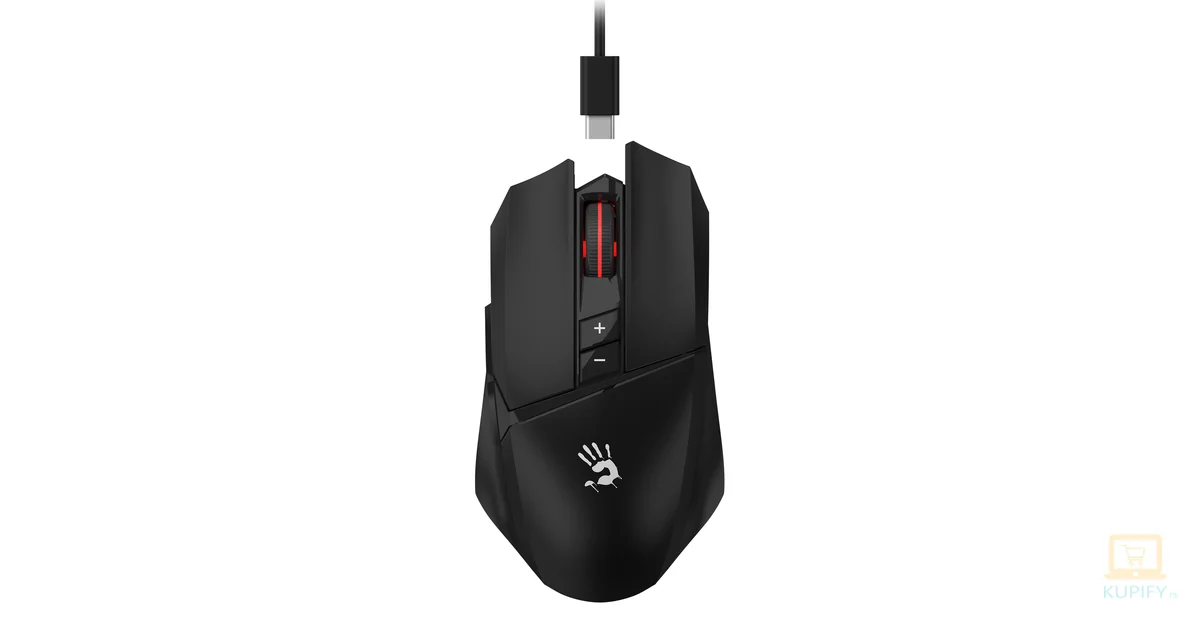
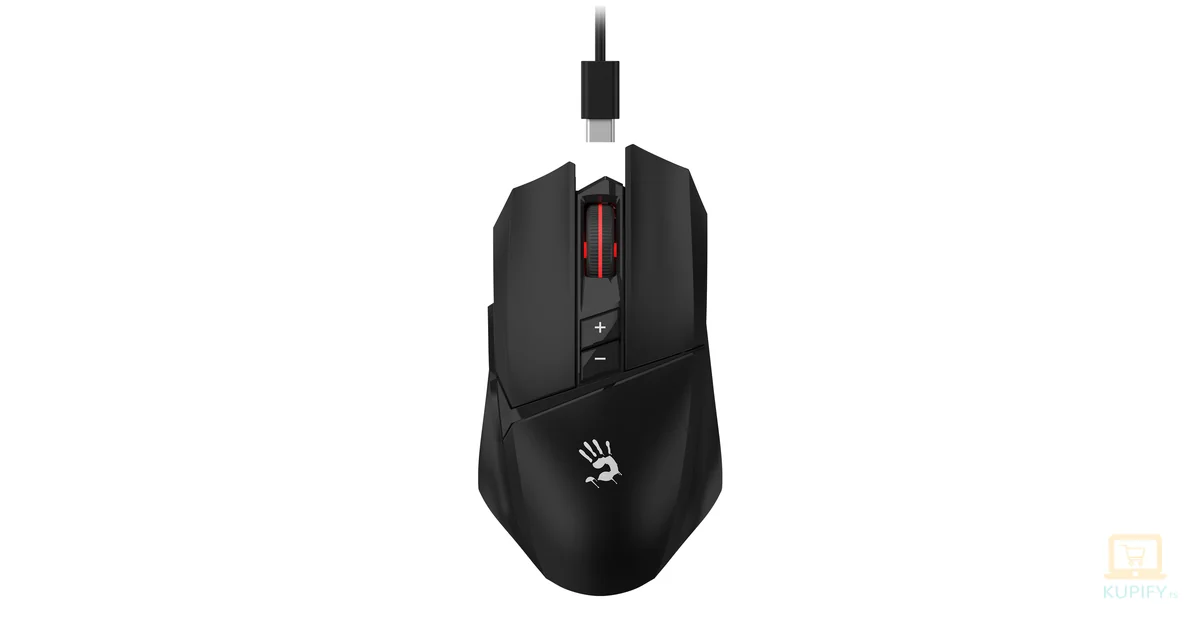
1pr prepravljen

diff --git a/pages/products/tv-i-video/spoljna-mrezasta-tv-antena-sa-pojacivacem-ant-408al/index.html b/pages/products/tv-i-video/spoljna-mrezasta-tv-antena-sa-pojacivacem-ant-408al/index.html
@@ -9,21 +9,21 @@
     <link rel="preload" href="/css/style.css" as="style" />
     <link rel="stylesheet" href="/css/style.css" />
 
-    <title>Spoljna mrežasta TV antena sa pojačivačem 17-35 dB ANT-408AL | KUPIFY.rs</title>
-    <meta name="description" content="Spoljna mrežasta TV antena sa pojačivačem ANT-408AL. Aluminijumska, izdržljiva, pojačanje 17-35 dB, odličan prijem VHF i UHF signala.">
+    <title>Spoljna mrežasta TV antena sa pojačivačem 38 dB – Falcom ANT-408AL | KUPIFY.rs</title>
+    <meta name="description" content="Falcom ANT-408AL spoljna mrežasta TV antena sa pojačivačem 38 dB, aluminijumskom konstrukcijom i prijemom DVB-T2, VHF, UHF i FM signala.">
 
     <!-- Open Graph / Twitter (“share” preview) -->
     <meta property="og:type" content="product">
-    <meta property="og:title" content="Spoljna mrežasta TV antena sa pojačivačem 17-35 dB ANT-408AL">
-    <meta property="og:description" content="Spoljna mrežasta TV antena sa pojačivačem ANT-408AL. Aluminijumska, izdržljiva, pojačanje 17-35 dB, odličan prijem VHF i UHF signala.">
+    <meta property="og:title" content="Spoljna mrežasta TV antena sa pojačivačem 38 dB – Falcom ANT-408AL">
+    <meta property="og:description" content="Falcom ANT-408AL spoljna mrežasta TV antena sa pojačivačem 38 dB, aluminijumskom konstrukcijom i prijemom DVB-T2, VHF, UHF i FM signala.">
     <meta property="og:url" content="https://kupify.rs/pages/products/tv-i-video/spoljna-mrezasta-tv-antena-sa-pojacivacem-ant-408al/">
     <meta property="og:image" content="https://kupify.rs/images/products/spoljna-mrezasta-tv-antena-sa-pojacivacem-ant-408al-og.webp">
     <meta property="og:site_name" content="Kupify">
     <meta property="og:locale" content="sr_RS">
 
     <meta name="twitter:card" content="summary_large_image">
-    <meta name="twitter:title" content="Spoljna mrežasta TV antena sa pojačivačem 17-35 dB ANT-408AL">
-    <meta name="twitter:description" content="Spoljna mrežasta TV antena sa pojačivačem ANT-408AL. Aluminijumska, izdržljiva, pojačanje 17-35 dB, odličan prijem VHF i UHF signala.">
+    <meta name="twitter:title" content="Spoljna mrežasta TV antena sa pojačivačem 38 dB – Falcom ANT-408AL">
+    <meta name="twitter:description" content="Falcom ANT-408AL spoljna mrežasta TV antena sa pojačivačem 38 dB, aluminijumskom konstrukcijom i prijemom DVB-T2, VHF, UHF i FM signala.">
     <meta name="twitter:image" content="https://kupify.rs/images/products/spoljna-mrezasta-tv-antena-sa-pojacivacem-ant-408al-og.webp">
 
 
@@ -38,7 +38,7 @@
     <!-- Canonical -->
     <link rel="canonical" href="https://kupify.rs/pages/products/tv-i-video/spoljna-mrezasta-tv-antena-sa-pojacivacem-ant-408al/">
 
-    <meta property="article:modified_time" content="2025-12-10T00:00:00+01:00">
+    <meta property="article:modified_time" content="2026-06-01T00:00:00+02:00">
 
     <!-- Product JSON-LD -->
     <script type="application/ld+json">
@@ -46,15 +46,15 @@
   "@context": "https://schema.org",
   "@type": "Product",
   "@id": "https://kupify.rs/pages/products/tv-i-video/spoljna-mrezasta-tv-antena-sa-pojacivacem-ant-408al/#product",
-  "name": "Spoljna mrežasta TV antena sa pojačivačem 17-35 dB ANT-408AL",
+  "name": "Spoljna mrežasta TV antena sa pojačivačem 38 dB – Falcom ANT-408AL",
   "category": "TV i video",
   "image": ["https://kupify.rs/images/products/spoljna-mrezasta-tv-antena-sa-pojacivacem-ant-408al-01.webp"],
-  "description": "Spoljna mrežasta TV antena sa pojačivačem ANT-408AL. Aluminijumska, izdržljiva, pojačanje 17-35 dB, odličan prijem VHF i UHF signala.",
+  "description": "Falcom ANT-408AL spoljna mrežasta TV antena sa pojačivačem 38 dB, aluminijumskom konstrukcijom i prijemom DVB-T2, VHF, UHF i FM signala.",
   "sku": "ANT-408AL",
   "gtin13": "3856001016260",
-  "brand": { "@type": "Brand", "name": "Vega" },
+  "brand": { "@type": "Brand", "name": "Falcom" },
   "itemCondition": "https://schema.org/NewCondition",
-  "dateModified": "2025-12-10T00:00:00+01:00",
+  "dateModified": "2026-06-01T00:00:00+02:00",
   "offers": {
     "@type": "Offer",
     "url": "https://kupify.rs/pages/products/tv-i-video/spoljna-mrezasta-tv-antena-sa-pojacivacem-ant-408al/",
@@ -110,13 +110,15 @@
     "itemListElement": [
       { "@type": "ListItem", "position": 1, "name": "Početna", "item": "https://kupify.rs/" },
       { "@type": "ListItem", "position": 2, "name": "TV i video", "item": "https://kupify.rs/pages/products/tv-i-video/" },
-      { "@type": "ListItem", "position": 3, "name": "Spoljna mrežasta TV antena sa pojačivačem 17-35 dB ANT-408AL", "item": "https://kupify.rs/pages/products/tv-i-video/spoljna-mrezasta-tv-antena-sa-pojacivacem-ant-408al/" }
+      { "@type": "ListItem", "position": 3, "name": "Spoljna mrežasta TV antena sa pojačivačem 38 dB – Falcom ANT-408AL", "item": "https://kupify.rs/pages/products/tv-i-video/spoljna-mrezasta-tv-antena-sa-pojacivacem-ant-408al/" }
     ]
   }
   </script>
 
     <!-- FAQ JSON-LD by Product-page-generator -->
-    
+    <script type="application/ld+json">
+{"@context":"https://schema.org","@type":"FAQPage","mainEntity":[{"@type":"Question","name":"Kažete da Falcom ANT-408AL ima ugrađeno pojačalo na samoj anteni, da li je zaštićeno od padavina?","acceptedAnswer":{"@type":"Answer","text":"Da. Pločica pojačivača se nalazi u kućištu na samoj anteni. Kućište je od plastike i štiti elektroniku od direktnog uticaja padavina, ali je potrebno antenu pravilno montirati tako da kablovi iz pojačala budu okrenuti nadole."}},{"@type":"Question","name":"Da li treba da postavim produžni kabl za strujni adapter jer se pojačalo nalazi na anteni?","acceptedAnswer":{"@type":"Answer","text":"Ne. Do antene se ne vodi poseban produžni strujni kabl. Strujni adapter se povezuje kod televizora, preko RF utikača koji dolazi u kompletu, a napajanje za pojačivač se prenosi do antene kroz koaksijalni kabl."}},{"@type":"Question","name":"Da li je ovo krovna antena?","acceptedAnswer":{"@type":"Answer","text":"Da. Falcom ANT-408AL može da se koristi kao krovna antena ako se montira na odgovarajući antenski stub ili cev pomoću šelni, odnosno obujmica."}},{"@type":"Question","name":"Kako najbolje postaviti antenu na mestima sa slabijim signalom?","acceptedAnswer":{"@type":"Answer","text":"Za bolji prijem potrebno je odrediti pravac lokalnog predajnika i pravilno usmeriti antenu. Kvalitet signala zavisi od udaljenosti, prepreka, visine montaže i uslova na lokaciji."}},{"@type":"Question","name":"Da li ova antena hvata sve besplatne kanale?","acceptedAnswer":{"@type":"Answer","text":"Antena može da prima besplatne DVB-T2 kanale koji su dostupni na vašoj lokaciji, ali broj kanala zavisi od udaljenosti od predajnika, pravca antene, prepreka i jačine signala. Pre montaže je potrebno usmeriti antenu ka lokalnom predajniku radi što boljeg prijema."}}]}
+</script>
 
 </head>
 
@@ -138,7 +140,7 @@
                 <meta itemprop="position" content="2" />
             </li>
             <li itemprop="itemListElement" itemscope itemtype="https://schema.org/ListItem" aria-current="page">
-                <span itemprop="name">Spoljna mrežasta TV antena sa pojačivačem 17-35 dB ANT-408AL</span>
+                <span itemprop="name">Spoljna mrežasta TV antena sa pojačivačem 38 dB – Falcom ANT-408AL</span>
                 <meta itemprop="position" content="3" />
             </li>
         </ol>
@@ -158,7 +160,7 @@
                     <button class="gallery-arrow prev" type="button" aria-label="Prethodna slika">‹</button>
 
                     <div class="main-image-frame">
-                        <img id="mainImage" src="/images/products/spoljna-mrezasta-tv-antena-sa-pojacivacem-ant-408al-01.webp" alt="Spoljna mrežasta TV antena ANT-408AL sa pojačivačem 35 dB i aluminijumskim panelom" width="500"
+                        <img id="mainImage" src="/images/products/spoljna-mrezasta-tv-antena-sa-pojacivacem-ant-408al-01.webp" alt="Spoljna mrežasta TV antena Falcom ANT-408AL sa pojačivačem 38 dB i aluminijumskim panelom" width="500"
                             height="500" fetchpriority="high" loading="eager" decoding="async">
                     </div>
 
@@ -166,7 +168,7 @@
                 </div>
 
                 <div class="thumbnails" role="group" aria-label="Umanjene slike proizvoda">
-                    <img src="/images/products/spoljna-mrezasta-tv-antena-sa-pojacivacem-ant-408al-01-thumb.webp" alt="Spoljna mrežasta TV antena ANT-408AL sa pojačivačem 35 dB i aluminijumskim panelom"
+                    <img src="/images/products/spoljna-mrezasta-tv-antena-sa-pojacivacem-ant-408al-01-thumb.webp" alt="Spoljna mrežasta TV antena Falcom ANT-408AL sa pojačivačem 38 dB i aluminijumskim panelom"
                     width="100" height="100" loading="lazy"
                     data-full="/images/products/spoljna-mrezasta-tv-antena-sa-pojacivacem-ant-408al-01.webp"
                     onmouseover="changeImage('/images/products/spoljna-mrezasta-tv-antena-sa-pojacivacem-ant-408al-01.webp')"
@@ -182,7 +184,7 @@
 
                 <section class="product-page-title" aria-label="Naziv i cena proizvoda">
 
-                    <h1 class="product-page-name">Spoljna mrežasta TV antena sa pojačivačem 17-35 dB ANT-408AL</h1>
+                    <h1 class="product-page-name">Spoljna mrežasta TV antena sa pojačivačem 38 dB – Falcom ANT-408AL</h1>
 
                     <div class="product-page-meta">
 
@@ -243,13 +245,9 @@
             <section id="opis" class="product-section">
                 <h2>Opis</h2>
                 
-<p><b>Spoljna mrežasta TV antena sa pojačivačem ANT-408AL</b> pruža jasan i stabilan prijem televizijskog signala čak
-    i
-    u udaljenim područjima. Zahvaljujući <b>aluminijumskoj konstrukciji</b>, antena je otporna na vremenske uslove i
-    laka
-    za montažu. Podržava <b>VHF, UHF i DVB-T2</b> frekvencije, a uz pojačivač nudi dobit do <b>35 dB</b> za bolji
-    kvalitet
-    slike i zvuka.</p>
+<p><strong>Falcom ANT-408AL</strong> je spoljna mrežasta TV antena namenjena za prijem digitalnog DVB-T2 signala u VHF i UHF opsegu i FM signala. Ugrađeni pojačivač od 38 dB čini je posebno pogodnom za prijem televizijskih kanala na mestima gde je signal slabiji.</p>
+<p>Antena ima aluminijumsku panelnu konstrukciju i širok ugao prijema od 110 stepeni horizontalno i 60 stepeni vertikalno. Model se montira pomoću obujmica na stub, a sistem za napajanje uključuje strujni adapter i spoljnu jedinicu pojačala.</p>
+<p>Prilikom montaže potrebno je pravilno povezati koaksijalni kabl i pravilno zatvoriti kutiju pojačivača na samoj anteni. Pre instalacije treba odrediti pravac lokalnog predajnika i pravilno usmeriti antenu, jer kvalitet prijema zavisi od položaja, udaljenosti, prepreka i uslova na terenu.</p>
 
             </section>
 
@@ -258,11 +256,11 @@
                 <h2>Karakteristike</h2>
                 
 <ul>
-<li><b>Snažno pojačanje:</b> Standardna dobit 17 dB, sa pojačivačem do 35 dB</li>
-<li><b>Podrška za opsege:</b> Prijem VHF (kanali 5-12) i UHF (kanali 21-69)</li>
-<li><b>Ugao prijema:</b> Horizontalno 45°, vertikalno 27°</li>
-<li><b>Materijal:</b> Aluminijum - lagan, otporan i trajan</li>
-<li><b>Dizajn:</b> Mrežasta panelna antena jednostavna za postavljanje</li>
+<li><strong>Pojačanje signala od 38 dB:</strong> Ugrađeni pojačivač poboljšava prijem digitalne TV slike, naročito na mestima gde je signal slabiji ili udaljeniji od predajnika.</li>
+<li><strong>Aluminijumska panelna konstrukcija:</strong> Mrežasta antena izrađena je od aluminijuma, što smanjuje težinu, mogućnost korozije i omogućava dugotrajniju upotrebu na otvorenom prostoru.</li>
+<li><strong>Širok ugao prijema:</strong> Horizontalni ugao prijema od 110 stepeni i vertikalni od 60 stepeni olakšavaju usmeravanje antene prema predajniku.</li>
+<li><strong>Montaža pomoću obujmica:</strong> Antena je predviđena za montažu na cev ili stub pomoću metalnih šelni, što omogućava čvrsto postavljanje na spoljašnji nosač.</li>
+<li><strong>VHF i UHF opseg:</strong> Podržava prijem kanala od 5 do 12 u VHF opsegu i od 21 do 69 u UHF opsegu, za DVB-T2 digitalnu televiziju.</li>
 </ul>
 
             </section>
@@ -272,12 +270,18 @@
                 <h2>Specifikacije</h2>
                 
 <ul>
-<li><b>Tip antene:</b> Panelna (mrežasta) spoljna antena</li>
-<li><b>Materijal:</b> Aluminijum</li>
-<li><b>Frekvencijski opseg:</b> VHF 5-12 / UHF 21-69</li>
-<li><b>Dobit:</b> 17 dB (osnovna) / 35 dB (sa pojačivačem)</li>
-<li><b>Ugao prijema:</b> Horizontalno 45°, vertikalno 27°</li>
-<li><b>Težina bruto:</b> 1.235 kg</li>
+<li><strong>Tip proizvoda:</strong> Spoljna panelna TV antena sa pojačivačem</li>
+<li><strong>Brend:</strong> Falcom</li>
+<li><strong>Model:</strong> ANT-408AL</li>
+<li><strong>Kanali prijema:</strong> VHF 5-12 / UHF 21-69</li>
+<li><strong>Podržani prijem:</strong> VHF, UHF, DVB-T2, FM</li>
+<li><strong>Pojačanje:</strong> 38 dB</li>
+<li><strong>Odnos napred-nazad:</strong> 25 dB</li>
+<li><strong>Ugao prijema:</strong> horizontalno 110 stepeni, vertikalno 60 stepeni</li>
+<li><strong>Materijal konstrukcije:</strong> Aluminijum, plastika</li>
+<li><strong>Način montaže:</strong> Na stub preko šelni / obujmica</li>
+<li><strong>Sadržaj sistema za napajanje:</strong> Strujni adapter i spoljna jedinica pojačala</li>
+<li><strong>Bruto težina:</strong> 1,235 kg</li>
 </ul>
 
             </section>
@@ -286,13 +290,26 @@
             <section id="zakljucak" class="product-section product-conclusion">
                 <h2>Zaključak</h2>
                 
-<p><b>VEGA ANT-408AL</b> spoljna TV antena nudi snažan prijem i pouzdanu konstrukciju. Sa <b>pojačivačem od 17-35
-      dB</b>, pruža kvalitetan signal i stabilnu sliku, idealna za kućnu upotrebu u svim vremenskim uslovima.</p>
+<p><strong>Falcom ANT-408AL</strong> je praktičan izbor za korisnike kojima treba spoljna mrežasta TV antena za prijem DVB-T2 signala u VHF i UHF opsegu. Pojačanje od 38 dB, aluminijumska konstrukcija, širok horizontalni ugao prijema od 110 stepeni i montaža na stub preko obujmica čine je pogodnom za usmeren prijem na otvorenom prostoru.</p>
 
             </section>
 
             <!-- FAQ by Product-page-generator -->
-            
+            <section id="faq" class="product-section product-faq">
+  <h2>Često postavljana pitanja</h2>
+
+<h3>Kažete da Falcom ANT-408AL ima ugrađeno pojačalo na samoj anteni, da li je zaštićeno od padavina?</h3>
+<p>Da. Pločica pojačivača se nalazi u kućištu na samoj anteni. Kućište je od plastike i štiti elektroniku od direktnog uticaja padavina, ali je potrebno antenu pravilno montirati tako da kablovi iz pojačala budu okrenuti nadole.</p>
+<h3>Da li treba da postavim produžni kabl za strujni adapter jer se pojačalo nalazi na anteni?</h3>
+<p>Ne. Do antene se ne vodi poseban produžni strujni kabl. Strujni adapter se povezuje kod televizora, preko RF utikača koji dolazi u kompletu, a napajanje za pojačivač se prenosi do antene kroz koaksijalni kabl.</p>
+<h3>Da li je ovo krovna antena?</h3>
+<p>Da. Falcom ANT-408AL može da se koristi kao krovna antena ako se montira na odgovarajući antenski stub ili cev pomoću šelni, odnosno obujmica.</p>
+<h3>Kako najbolje postaviti antenu na mestima sa slabijim signalom?</h3>
+<p>Za bolji prijem potrebno je odrediti pravac lokalnog predajnika i pravilno usmeriti antenu. Kvalitet signala zavisi od udaljenosti, prepreka, visine montaže i uslova na lokaciji.</p>
+<h3>Da li ova antena hvata sve besplatne kanale?</h3>
+<p>Antena može da prima besplatne DVB-T2 kanale koji su dostupni na vašoj lokaciji, ali broj kanala zavisi od udaljenosti od predajnika, pravca antene, prepreka i jačine signala. Pre montaže je potrebno usmeriti antenu ka lokalnom predajniku radi što boljeg prijema.</p>
+
+</section>
 
             <p class="internal-code">Šifra proizvoda: 429</p>
 
@@ -301,11 +318,11 @@
                 <details class="deklaracija">
                     <summary>Deklaracija</summary>
                     
-<p>Proizvođač: VEGA<br/>
-    Model: ANT-408AL<br/>
-    EAN: 3856001016260<br/>
-    Distributer: Optibox d.o.o., Bački Vinogradi<br/>
-    Zemlja porekla: Srbija</p>
+<p>Proizvođač: Falcom<br/>
+Model: ANT-408AL<br/>
+EAN: 3856001016260<br/>
+Distributer: Optibox d.o.o., Bački Vinogradi<br/>
+Zemlja porekla: Srbija</p>
 
                 </details>
 
@@ -371,7 +388,7 @@
     <!-- Product data for analytics (tokens via build.py) -->
     <script type="application/json" id="ga-product">
   {
-    "name": "Spoljna mrežasta TV antena sa pojačivačem 17-35 dB ANT-408AL",
+    "name": "Spoljna mrežasta TV antena sa pojačivačem 38 dB – Falcom ANT-408AL",
     "slug": "spoljna-mrezasta-tv-antena-sa-pojacivacem-ant-408al",
     "category": "tv-i-video",
     "category_name": "TV i video",

diff --git a/pages/products/tv-i-video/sobna-tv-antena-kettz-dt-k101-sa-pojacivacem/index.html b/pages/products/tv-i-video/sobna-tv-antena-kettz-dt-k101-sa-pojacivacem/index.html
@@ -361,8 +361,8 @@
                     <span class="related-title">Sobna TV/FM antena sa pojačivačem – Kettz DT-K035</span>
                     </a>
 <a class="related-card" href="/pages/products/tv-i-video/spoljna-mrezasta-tv-antena-sa-pojacivacem-ant-408al/">
-                    <img src="/images/products/spoljna-mrezasta-tv-antena-sa-pojacivacem-ant-408al-01-thumb.webp" width="130" height="130" loading="lazy" alt="Spoljna mrežasta TV antena sa pojačivačem 17-35 dB ANT-408AL">
-                    <span class="related-title">Spoljna mrežasta TV antena sa pojačivačem 17-35 dB ANT-408AL</span>
+                    <img src="/images/products/spoljna-mrezasta-tv-antena-sa-pojacivacem-ant-408al-01-thumb.webp" width="130" height="130" loading="lazy" alt="Spoljna mrežasta TV antena sa pojačivačem 38 dB – Falcom ANT-408AL">
+                    <span class="related-title">Spoljna mrežasta TV antena sa pojačivačem 38 dB – Falcom ANT-408AL</span>
                     </a>
   </div>
 </section>

diff --git a/pages/products/tv-i-video/sobna-tv-antena-sa-pojacivacem-kettz-dt-k024/index.html b/pages/products/tv-i-video/sobna-tv-antena-sa-pojacivacem-kettz-dt-k024/index.html
@@ -353,8 +353,8 @@
                     <span class="related-title">Sobna TV/FM antena sa pojačivačem – Kettz DT-K035</span>
                     </a>
 <a class="related-card" href="/pages/products/tv-i-video/spoljna-mrezasta-tv-antena-sa-pojacivacem-ant-408al/">
-                    <img src="/images/products/spoljna-mrezasta-tv-antena-sa-pojacivacem-ant-408al-01-thumb.webp" width="130" height="130" loading="lazy" alt="Spoljna mrežasta TV antena sa pojačivačem 17-35 dB ANT-408AL">
-                    <span class="related-title">Spoljna mrežasta TV antena sa pojačivačem 17-35 dB ANT-408AL</span>
+                    <img src="/images/products/spoljna-mrezasta-tv-antena-sa-pojacivacem-ant-408al-01-thumb.webp" width="130" height="130" loading="lazy" alt="Spoljna mrežasta TV antena sa pojačivačem 38 dB – Falcom ANT-408AL">
+                    <span class="related-title">Spoljna mrežasta TV antena sa pojačivačem 38 dB – Falcom ANT-408AL</span>
                     </a>
 <a class="related-card" href="/pages/products/tv-i-video/spoljna-tv-fm-antena-midi-loga-kettz-as-k020/">
                     <img src="/images/products/spoljna-tv-fm-antena-midi-loga-kettz-as-k020-01-thumb.webp" width="130" height="130" loading="lazy" alt="Spoljna TV/FM antena Midi Loga sa RF konektorom – Kettz AS-K020">

diff --git a/pages/products/tv-i-video/sobna-tv-fm-antena-sa-pojacivacem-48db-kettz-dt-k028/index.html b/pages/products/tv-i-video/sobna-tv-fm-antena-sa-pojacivacem-48db-kettz-dt-k028/index.html
@@ -359,8 +359,8 @@
                     <span class="related-title">Sobna TV/FM antena sa pojačivačem – Kettz DT-K035</span>
                     </a>
 <a class="related-card" href="/pages/products/tv-i-video/spoljna-mrezasta-tv-antena-sa-pojacivacem-ant-408al/">
-                    <img src="/images/products/spoljna-mrezasta-tv-antena-sa-pojacivacem-ant-408al-01-thumb.webp" width="130" height="130" loading="lazy" alt="Spoljna mrežasta TV antena sa pojačivačem 17-35 dB ANT-408AL">
-                    <span class="related-title">Spoljna mrežasta TV antena sa pojačivačem 17-35 dB ANT-408AL</span>
+                    <img src="/images/products/spoljna-mrezasta-tv-antena-sa-pojacivacem-ant-408al-01-thumb.webp" width="130" height="130" loading="lazy" alt="Spoljna mrežasta TV antena sa pojačivačem 38 dB – Falcom ANT-408AL">
+                    <span class="related-title">Spoljna mrežasta TV antena sa pojačivačem 38 dB – Falcom ANT-408AL</span>
                     </a>
 <a class="related-card" href="/pages/products/tv-i-video/spoljna-tv-fm-antena-midi-loga-kettz-as-k020/">
                     <img src="/images/products/spoljna-tv-fm-antena-midi-loga-kettz-as-k020-01-thumb.webp" width="130" height="130" loading="lazy" alt="Spoljna TV/FM antena Midi Loga sa RF konektorom – Kettz AS-K020">

diff --git a/pages/products/tv-i-video/sobna-tv-fm-antena-sa-pojacivacem-kettz-dt-k035/index.html b/pages/products/tv-i-video/sobna-tv-fm-antena-sa-pojacivacem-kettz-dt-k035/index.html
@@ -350,8 +350,8 @@
   <h2>Pogledajte povezane proizvode</h2>
   <div class="related-grid">
 <a class="related-card" href="/pages/products/tv-i-video/spoljna-mrezasta-tv-antena-sa-pojacivacem-ant-408al/">
-                    <img src="/images/products/spoljna-mrezasta-tv-antena-sa-pojacivacem-ant-408al-01-thumb.webp" width="130" height="130" loading="lazy" alt="Spoljna mrežasta TV antena sa pojačivačem 17-35 dB ANT-408AL">
-                    <span class="related-title">Spoljna mrežasta TV antena sa pojačivačem 17-35 dB ANT-408AL</span>
+                    <img src="/images/products/spoljna-mrezasta-tv-antena-sa-pojacivacem-ant-408al-01-thumb.webp" width="130" height="130" loading="lazy" alt="Spoljna mrežasta TV antena sa pojačivačem 38 dB – Falcom ANT-408AL">
+                    <span class="related-title">Spoljna mrežasta TV antena sa pojačivačem 38 dB – Falcom ANT-408AL</span>
                     </a>
 <a class="related-card" href="/pages/products/tv-i-video/spoljna-tv-fm-antena-midi-loga-kettz-as-k020/">
                     <img src="/images/products/spoljna-tv-fm-antena-midi-loga-kettz-as-k020-01-thumb.webp" width="130" height="130" loading="lazy" alt="Spoljna TV/FM antena Midi Loga sa RF konektorom – Kettz AS-K020">